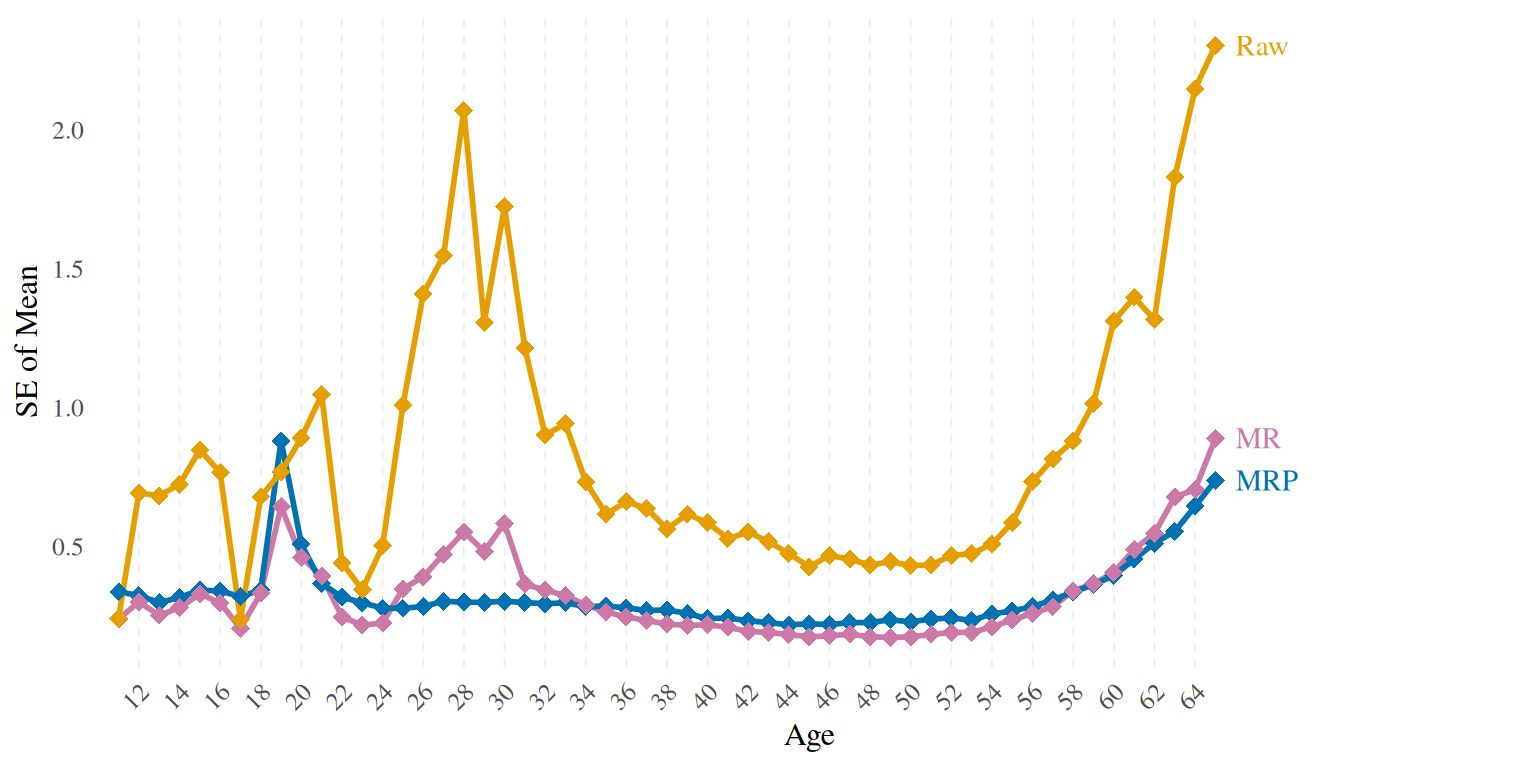
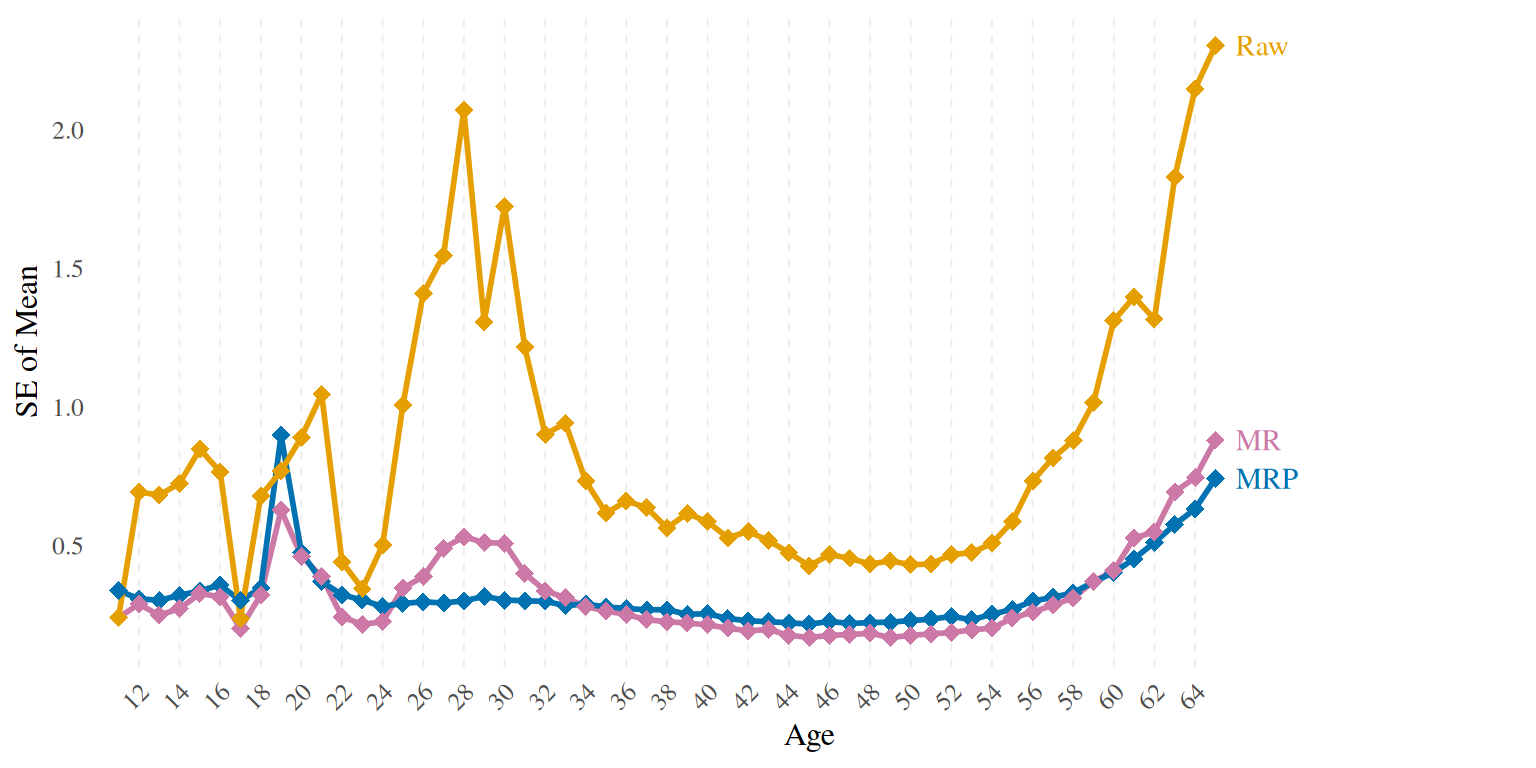
minor revision to text

diff --git a/docs/04_supplements.html b/docs/04_supplements.html
@@ -10,7 +10,7 @@
 
 
 
-<meta name="date" content="2024-02-18" />
+<meta name="date" content="2024-02-21" />
 
 <title>Supplementary analyses</title>
 
@@ -356,7 +356,7 @@ div.tocify {
 
 
 <h1 class="title toc-ignore">Supplementary analyses</h1>
-<h4 class="date">2024-02-18</h4>
+<h4 class="date">2024-02-21</h4>
 
 </div>
 
@@ -400,10 +400,11 @@ class="section level1" number="1">
 without poststratification</h1>
 <p>In order to clearly see the contribution of poststratification as
 opposed to only making predictions based on the regression model (as is
-done in continuous norming and similar approaches for example), we
-superimposed another line for non-poststratified predictions on the plot
-seen in the Tutorial document. We did this using a function at an
-earlier stage of the project to facilitate comparing several models:</p>
+done in continuous norming and similar approaches for example), here we
+compare raw and MRP means to predictions from the regularised prediction
+model without poststratification (MR). We did this using a function at
+an earlier stage of the project to facilitate comparing several
+models:</p>
 <div
 id="function-for-plotting-mrp-results-and-comparing-them-with-raw-values-and-mr-predictions"
 class="section level2" number="1.1">
@@ -613,13 +614,13 @@ function</h2>
 ## # A tibble: 1 × 4
 ##   `MRP Mean` `MRP SE of Mean` `MRP SD` `MRP SE of SD`
 ##        &lt;dbl&gt;            &lt;dbl&gt;    &lt;dbl&gt;          &lt;dbl&gt;
-## 1       35.7            0.107     8.54         0.0880
+## 1       35.7            0.107     8.53         0.0883
 ## 
 ## $mr_overall_estimates
 ## # A tibble: 1 × 4
 ##   `MR Mean` `MR SE of Mean` `MR SD` `MR SE of SD`
 ##       &lt;dbl&gt;           &lt;dbl&gt;   &lt;dbl&gt;         &lt;dbl&gt;
-## 1      37.4          0.0694    8.15        0.0569</code></pre>
+## 1      37.4          0.0704    8.14        0.0560</code></pre>
 <p>Besides the obvious effect that poststratification has on means, it
 also smoothes SD estimates and considerably reduces SEs of both means
 and SDs.</p>
@@ -1162,9 +1163,9 @@ mean(means_ns_sds_and_ses$dif_mrp_raw, na.rm=T)</code></pre>
 <pre class="r"><code>mean(means_ns_sds_and_ses$dif_mrp_raw_abs, na.rm=T)</code></pre>
 <pre><code>## [1] 1.608</code></pre>
 <pre class="r"><code>mean(means_ns_sds_and_ses$dif_mrps)</code></pre>
-<pre><code>## [1] -0.02474</code></pre>
+<pre><code>## [1] 0.00271</code></pre>
 <pre class="r"><code>mean(means_ns_sds_and_ses$dif_mrps_abs)</code></pre>
-<pre><code>## [1] 0.1483</code></pre>
+<pre><code>## [1] 0.1411</code></pre>
 </div>
 </div>
 <div id="one-person-per-family" class="section level1" number="4">
@@ -1293,9 +1294,9 @@ mean(means_ns_sds_and_ses$dif_mrp_raw, na.rm=T)</code></pre>
 <pre class="r"><code>mean(means_ns_sds_and_ses$dif_mrp_raw_abs, na.rm=T)</code></pre>
 <pre><code>## [1] 1.751</code></pre>
 <pre class="r"><code>mean(means_ns_sds_and_ses$dif_mrps)</code></pre>
-<pre><code>## [1] -0.018</code></pre>
+<pre><code>## [1] -0.01851</code></pre>
 <pre class="r"><code>mean(means_ns_sds_and_ses$dif_mrps_abs)</code></pre>
-<pre><code>## [1] 0.2687</code></pre>
+<pre><code>## [1] 0.2698</code></pre>
 <p>Despite shrinking the sample size from N = 10059 to 4044, the results
 seem to be largely unchanged. Only the SEs slightly increased as would
 be expected.</p>
@@ -1428,9 +1429,9 @@ mean(means_ns_sds_and_ses$dif_mrp_raw, na.rm=T)</code></pre>
 <pre class="r"><code>mean(means_ns_sds_and_ses$dif_mrp_raw_abs, na.rm=T)</code></pre>
 <pre><code>## [1] 1.516</code></pre>
 <pre class="r"><code>mean(means_ns_sds_and_ses$dif_mrps)</code></pre>
-<pre><code>## [1] -0.01154</code></pre>
+<pre><code>## [1] -0.01023</code></pre>
 <pre class="r"><code>mean(means_ns_sds_and_ses$dif_mrps_abs)</code></pre>
-<pre><code>## [1] 0.1138</code></pre>
+<pre><code>## [1] 0.1141</code></pre>
 </div>
 </div>
 <div id="session-info" class="section level1" number="6">
